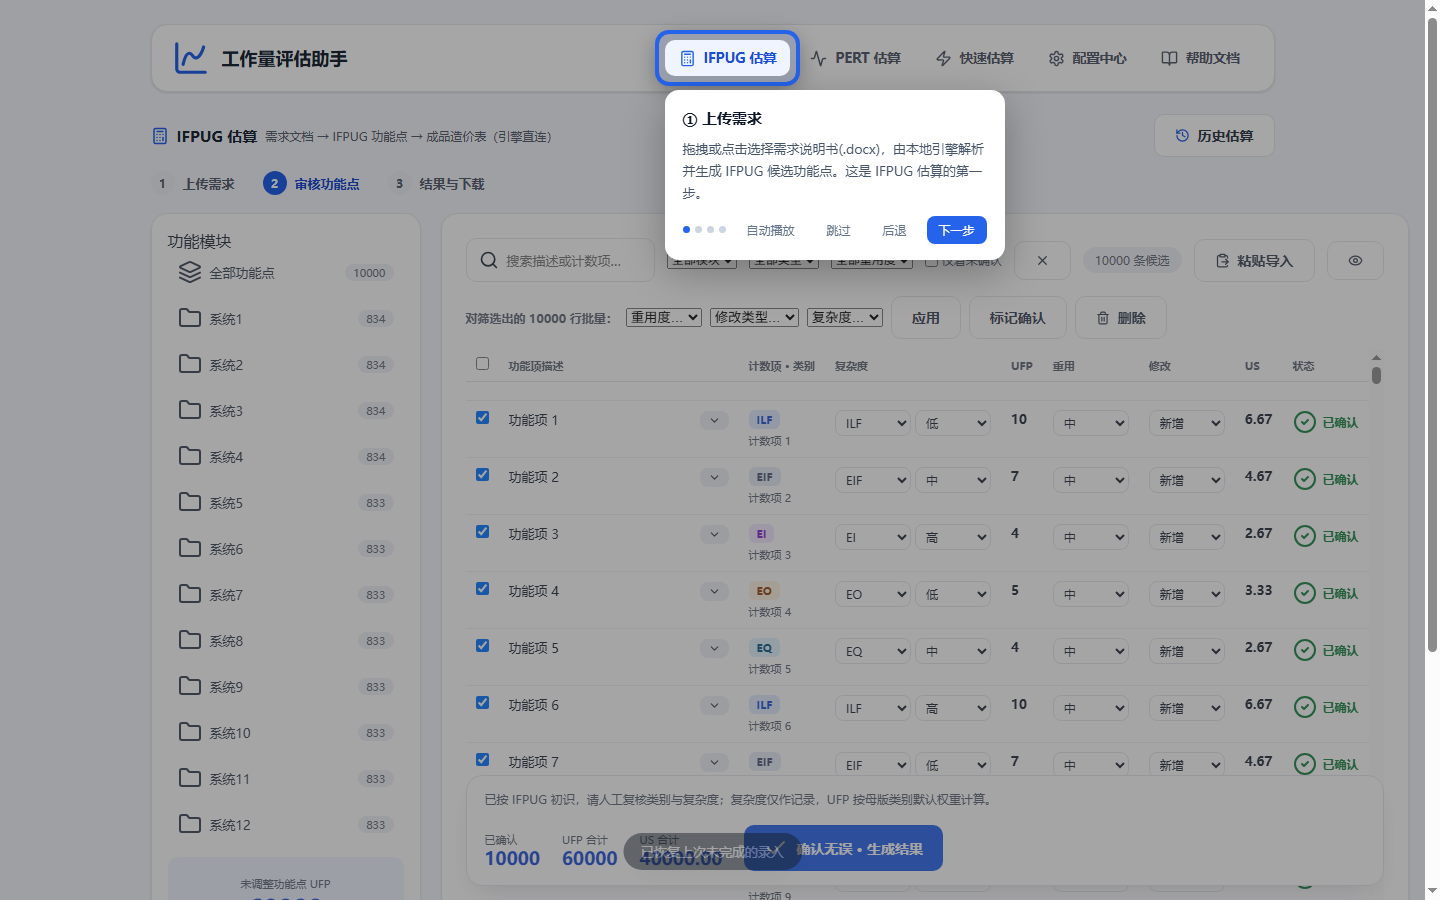
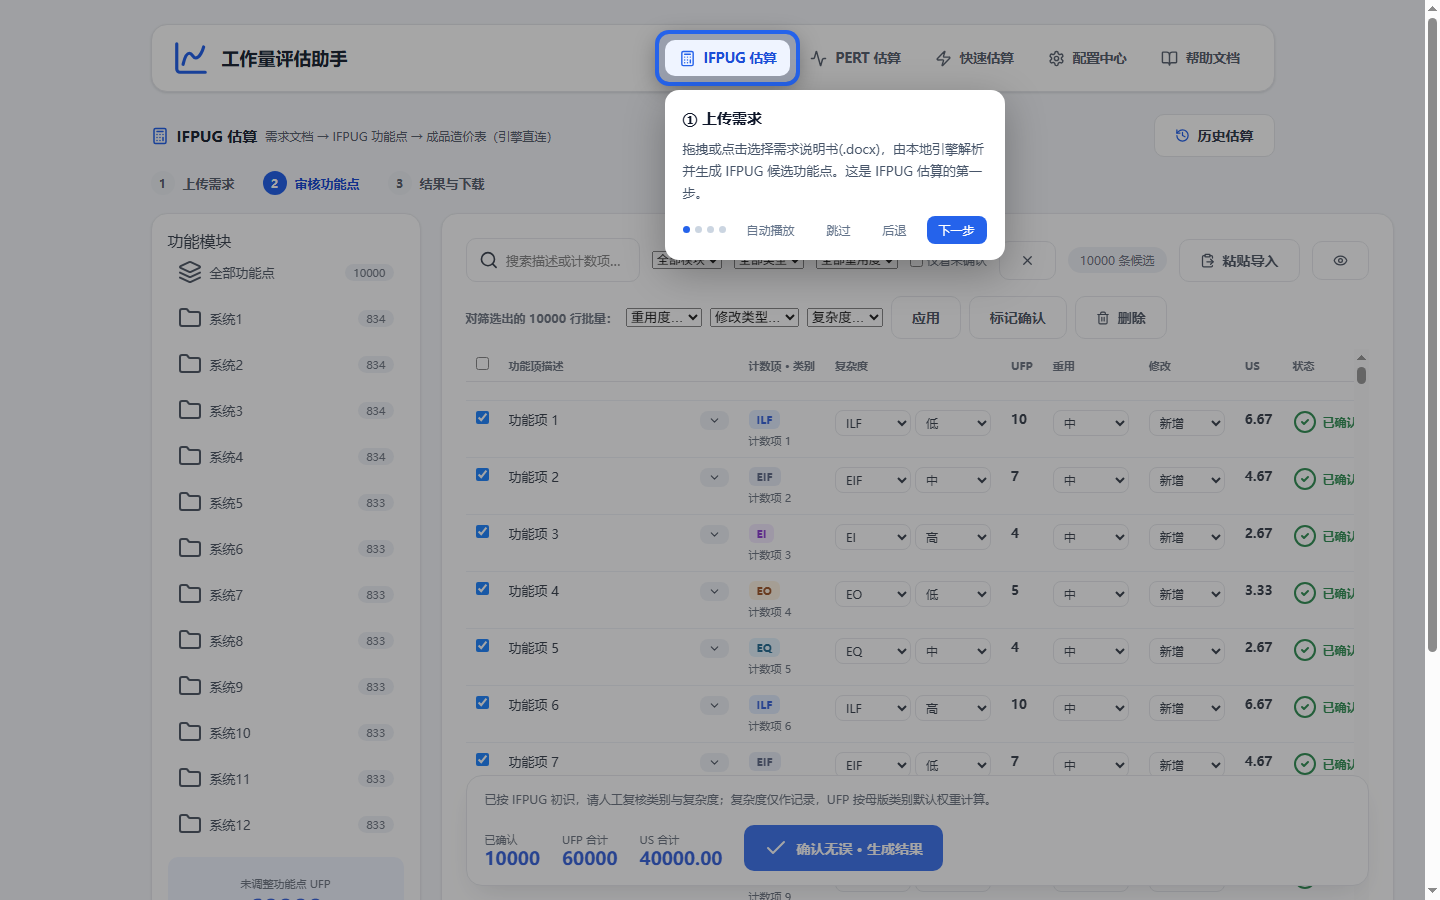
fix(phase3): 固定10k复核视口并补行池复用对照

diff --git a/frontend/src/css/21_phase3_review.css b/frontend/src/css/21_phase3_review.css
@@ -1,0 +1,5 @@
+/* T06174：10k 复核表固定视口——滚动父容器不再随 10k 行内容无限增高，ctBindScroll 才能触发。 */
+#v-review div[style*="overflow:auto"] {
+  max-height: calc(100vh - 240px);
+  overflow: auto !important;
+}

diff --git a/docs/test-reports/phase3-20261122/三期任务处理报告.md b/docs/test-reports/phase3-20261122/三期任务处理报告.md
@@ -4,11 +4,11 @@
 
 - 已从 MTask `Evaluation三期`（项目 `4991b604-f0f1-4a4c-8741-be7aa0f2d410`）拉取全部 **38 项 todo**，逐项对照现有代码、测试与 PRD 版本完成分诊。
 - 本轮闭环 **4 项 verified**：T06176（PDF 引擎 Spike）、T06178（国际化）、T06185（空态/错误态）、T06202（单机隔离）。
-- **T06174 当前设备验收未通过**：headless 多次 **6.5–8.4fps**（受机器负载波动），**有头 Chrome 9.8fps / 589 帧**，外部 spacer 原型 6.8–9.0fps；隔离汇总/图标后 7.4–11.7fps。已排除纯 headless 限速，产品侧需行 DOM 复用/div 网格重构，并把汇总、图标移出滚动路径，当前保持 todo。
+- **T06174 当前设备验收未通过**：产品侧已落地固定视口 CSS（`frontend/src/css/21_phase3_review.css`），10k 行可达第 10000 行；但 headless 多次 **6.5–8.4fps**、**有头 Chrome 9.8fps**、外部 spacer 6.8–9.0fps、`table-layout:fixed` 7.7fps、行 DOM 池复用原型 8.3fps，均未达 55fps。已确认瓶颈在表格布局/绘制，需 div 网格或绝对定位行体重构，当前保持 todo。
 - 发现 **4 项真实缺口**（保持 todo）：T06173（WCAG 2.2 AA 未达标）、T06174（10k 帧率不达标）、T06205（RBAC 缺失导致安全审计 AC-25 无法通过）、T06208（升级回滚/诊断包待补）。
 - 其余 **8 项依赖阻塞、22 项待排期**；完整 38 行矩阵见 `三期任务分流矩阵.md`。
 - **MTask 已回写**：4 项置为 done + verified（T06176/T06178/T06185/T06202），34 项保持 todo 并逐项写入处理结论/下一步；相关产物已提交到 `main`。
-- **5 个套件最终 3/5 PASS**：i18n 10/10、单机 4/4、空态 5/5；10k 7/11、a11y 4/17，后两者即 T06174/T06173 的缺口证据。
+- **5 个套件最终 3/5 PASS**：i18n 10/10、单机 4/4、空态 5/5；10k 7/12、a11y 4/17，后两者即 T06174/T06173 的缺口证据。
 
 > 关键判断：MTask 导入的任务描述/需求关联存在错配（如 T06178 国际化关联到 REQ-013 实际值/MAPE，T06194 稳定 ID 写 AC-14 而正文是 AC-11）。本轮以**任务标题 + 正文验收口径**为准，不把 `req_ids` 当作唯一验收依据。
 
@@ -20,7 +20,7 @@
 | T06178 国际化基础架构 | 已满足 | S12 82/82；新增伪本地化 +35% 压力测试 10/10，1440/1024/768 无破版，926 键全量覆盖，CJK 字体可测量 |
 | T06185 空态与错误态 | 已满足 | 新增审计 5/5：复核空态、筛选空态、历史空态、errorBox（alert+重试+诊断）、配置降级均有可执行反馈 |
 | T06202 单机/工作组隔离 | 已满足 | 四页面无协作/工作组/SSO 入口，`/api/team`=404，上传主流程入口完整，源码扫描无协作功能残留 |
-| T06174 10k 虚拟化原型 | 未通过（有头 9.8fps） | 注入视口 CSS 后 645px、DOM 31 行、可到第 10000 行，但 60 秒滚动 headless 6.5–8.4fps、有头 9.8fps、99.5% 长帧；外部 spacer 原型 6.8–9.0fps。需行 DOM 复用/div 网格重构，详见 3.2 |
+| T06174 10k 虚拟化原型 | 未通过（有头 9.8fps） | 产品 CSS 已固定视口为 645px、DOM 31 行、可到第 10000 行；但 60 秒滚动 headless 6.5–8.4fps、有头 9.8fps、`table-layout:fixed` 7.7fps、行池复用 8.3fps。需 div 网格/绝对定位行体，详见 3.2 |
 
 ### 2.1 PDF 引擎结论
 
@@ -50,36 +50,38 @@ axe-core 4.10.2 实测 serious/critical 未清零：
 
 现有 `ctRenderVirtual` 只做了窗口行渲染，但复核表滚动父容器 `overflow:auto` 没有固定高度：10k 行时 `clientHeight=scrollHeight=440,455px`，容器自身不产生滚动，`ctBindScroll` 永不触发，第 32 行以后实际不可达。
 
-测试中注入以下 1 条 CSS 后，视口变为 645px、DOM 稳定 31 行、可滚动到第 10000 行；但 60 秒连续滚动 headless 多次 **6.5–8.4fps**、有头 Chrome **9.8fps / 589 帧**，长帧 99.5%，未达到 AC-03 的 60fps。
+已新增产品 CSS `frontend/src/css/21_phase3_review.css` 并本地重建前端验证（`frontend/index.html` 含前序帮助页未提交改动，故未随本次提交），无需测试注入即可把视口固定为 645px、DOM 稳定 31 行、滚动到第 10000 行；但 60 秒连续滚动 headless 多次 **6.5–8.4fps**、有头 Chrome **9.8fps / 589 帧**，长帧 99.2–99.5%，未达到 AC-03 的 60fps。
 
 ```css
 #v-review div[style*="overflow:auto"] { max-height: calc(100vh - 240px); overflow: auto !important; }
 ```
 
-**根因不是单一的 `refreshTotals()`**。隔离与对照结果：
+**根因不是单一的 `refreshTotals()`，也不是行 DOM 重建**。隔离与对照结果：
 
 | 实验 | 帧率 | 结论 |
 |---|---|---|
-| 仅固定视口（headless） | 6.5–8.4fps，长帧 99.4–99.5% | 基线不达标 |
-| 仅固定视口（有头 Chrome） | 9.8fps / 589 帧，长帧 99.5% | 排除纯 headless 限速，缺口成立 |
+| 产品 CSS 固定视口（headless） | 6.5–8.4fps，长帧 99.2–99.5% | 视口已修复，帧率仍不达标 |
+| 产品 CSS 固定视口（有头 Chrome） | 9.8fps / 589 帧，长帧 99.5% | 排除纯 headless 限速，缺口成立 |
 | 关闭 `refreshTotals()` | 6.4–9.9fps | 提升有限，O(n) 汇总不是主因 |
 | 再关闭 `lucide.createIcons()` | 7.4–11.7fps | 图标重建只占小头；`render` 平均 22.8–33.7ms/帧 |
 | 外部 spacer + sticky 表格原型 | 6.8–9.0fps | 去掉 tbody 内 440k 高 spacer 后仍不达标 |
 | 启用 GPU 参数（`PHASE3_GPU=1`） | 7.7fps / 461 帧 | 与 `--disable-gpu` 基本一致 |
+| `table-layout:fixed` 注入 | 7.7fps / 77 帧 | 列宽计算不是主因 |
+| 外部 spacer + 行 DOM 池复用原型 | 8.3fps / 84 帧 | 只复用 31 行节点仍不达标 |
 
-`render({light:true})` 每帧重建 31 行 `<tr>`，并向 440,455px 高的 `<tbody>` 重写两个大 spacer 行；有头测量单帧约 102ms，其中 JS 渲染约 22.8ms，余下约 79ms 在表格布局/绘制。
+`render({light:true})` 每帧重建 31 行 `<tr>`，并向 440,455px 高的 `<tbody>` 重写两个大 spacer 行；有头测量单帧约 102ms，其中 JS 渲染约 22.8ms，余下约 79ms 在表格布局/绘制。`table-layout:fixed` 和行池复用分别只去掉列宽计算与 `innerHTML` 重建，帧率仍 7.7–8.3fps，说明**表格整体布局/绘制**才是主瓶颈。
 
-**判断**：有头复测仍 9.8fps，T06174 在本机是真实缺口；外部 spacer 原型也未解决，说明仅换滚动容器不够，需同时降低行 DOM 重建与表格布局成本。
+**判断**：T06174 在本机是真实缺口，视口缺口已由产品 CSS 关闭，帧率缺口未关闭；仅换滚动容器、固定列宽或复用 `<tr>` 都不够，必须把行体从 `<table>` 布局中移出。
 
 **修复建议（按收益排序）**：
 
-1. 行容器重构：表头与行体拆开，行体改绝对定位（`position:absolute; transform:translateY()`）或 div 网格，spacer 只保留一个总高占位；
-2. 行 DOM 复用：固定 31 行节点池，滚动时只更新文本/状态，不整段 `innerHTML` 重建；
+1. 行体改 div 网格或绝对定位：表头保留，行体用 `position:absolute; transform:translateY()` 定位，彻底避开 `<table>` 的整表布局；spacer 只保留一个总高占位；
+2. 行 DOM 复用：固定 31 行节点池，滚动时只更新文本/状态（原型已验证单独做不够，需与第 1 项一起做）；
 3. `refreshTotals()` 移出滚动路径，改为数据变更/确认/筛选时重算，并按 seq 增量更新；
 4. 滚动时跳过 `lucide.createIcons()`，图标用一次性 SVG 或 CSS 图标；
 5. 用本套件复跑，目标 ≥55fps、长帧 <10%、第 10000 行可达。
 
-T06174 当前确认的是**视口 + 帧率双缺口**，不是单一 CSS 问题。
+T06174 当前是**视口已修复、帧率仍缺口**，不是单一 CSS 问题。
 
 
 
@@ -131,7 +133,9 @@ MTask 导入的 38 项中至少 5 项 `req_ids` 与标题/正文明显错配：
 | `results/ui-10k-grid.json` | 10k 帧率/白屏/窗口行数（headless 主批次） |
 | `results/ui-10k-grid-headed.json` | 有头 Chrome 10k 复测（9.8fps / 589 帧） |
 | `phase3-headed-10k.log` | 有头 Chrome 10k 套件输出 |
-| `results/proto-10k-spacer.json` | 外部 spacer 原型对照（6.8–9.0fps，证明 headless 环境可能限速） |
+| `results/proto-10k-spacer.json` | 外部 spacer 原型对照（6.8–9.0fps，换滚动容器仍不达标） |
+| `results/proto-10k-rowpool.json` | 外部 spacer + 行 DOM 池复用原型（8.3fps，复用行节点仍不达标） |
+| `frontend/src/css/21_phase3_review.css` | 产品固定视口 CSS（T06174 视口缺口修复） |
 | `results/ui-a11y-wcag22.json` | axe 违规明细、200% 缩放、AX 树 |
 | `results/ui-i18n-pseudo.json` | 伪本地化三宽度与字体 |
 | `results/ui-single-machine.json` | 隔离审计 |

diff --git a/docs/test-reports/phase3-20261122/三期任务分流矩阵.md b/docs/test-reports/phase3-20261122/三期任务分流矩阵.md
@@ -13,7 +13,7 @@
 | T06171 | urgent | V1.1-A | [PRD] 构建三层Token设计系统 | 待排期 | 仅有 CSS 变量与 6 套品牌预设；缺原始/语义/组件三层 Token JSON、导入导出与校验。 |
 | T06172 | urgent | V1.1-A | [PRD] 实现核心UI组件库 | 待排期 | 有表格组件 21_component_table.js 与通用 CSS；按钮/输入/弹窗/抽屉无文档化组件 API。 |
 | T06173 | urgent | V1.1-A | [PRD] 落地WCAG 2.2 AA无障碍 | 有缺口（保持待办） | S9 键盘 18/18、对比度 81/81；axe 4.10.2 实测 serious/critical 未清零，200% 缩放下 doc 804>vw 720。 |
-| T06174 | urgent | V1.1-A | [PRD] 验证10k行虚拟化方案 | 有缺口（保持待办） | 复核表滚动父容器无固定高度：10k 下 clientHeight=scrollHeight=440455，窗口不更新。注入视口 CSS 后 645px、DOM 31 行、可到第 10000 行，但 60 秒滚动 headless 6.5–8.4fps、有头 9.8fps、长帧 99.5%；隔离汇总/图标后 7.4–11.7fps，render 22.8–33.7ms/帧，余下约 79ms 在表格布局/绘制；外部 spacer 原型 6.8–9.0fps 也失败。需行容器重构 + 行 DOM 复用 + 汇总/图标移出滚动路径。 |
+| T06174 | urgent | V1.1-A | [PRD] 验证10k行虚拟化方案 | 有缺口（保持待办） | 产品 CSS frontend/src/css/21_phase3_review.css 已固定视口 645px，DOM 31 行、可到第 10000 行；但 60 秒滚动 headless 6.5–8.4fps、有头 9.8fps、table-layout:fixed 7.7fps、外部 spacer+行 DOM 池复用 8.3fps，长帧 99.2–99.5%。render 22.8–33.7ms/帧，余下约 79ms 在表格布局/绘制；仅换滚动容器、固定列宽、复用 <tr> 均不够，需行体 div 网格/绝对定位重构 + 汇总/图标移出滚动路径。 |
 | T06175 | urgent | V1.1-A | [PRD] 实现编辑韧性与自动保存 | 待排期 | 仅表单草稿 saveFormState；复核项无 1 秒自动保存、20 步撤销、崩溃恢复。 |
 | T06176 | urgent | V1.1-A | [PRD] 选型并验证PDF引擎 | 已完成（verified） | Chromium printToPDF 19 页样本：字体嵌入、目录 17/17、书签 20 条、水印/页码 19/19，第二遍 3.6s；报告 docs/spikes/pdf-engine-20261122。 |
 | T06177 | urgent | V1.1-A | [PRD] 建立性能与视觉回归基线 | 待排期 | 有 S9/S11/S12 回归，无三主题中英视觉基线、无 p95≤150ms 事件门禁。 |
